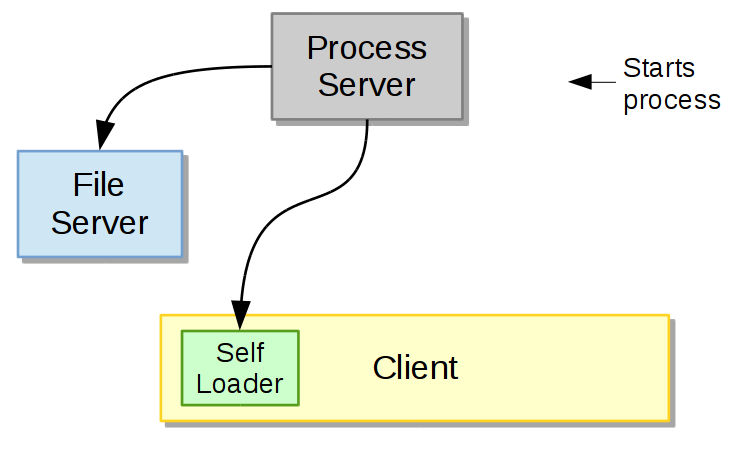
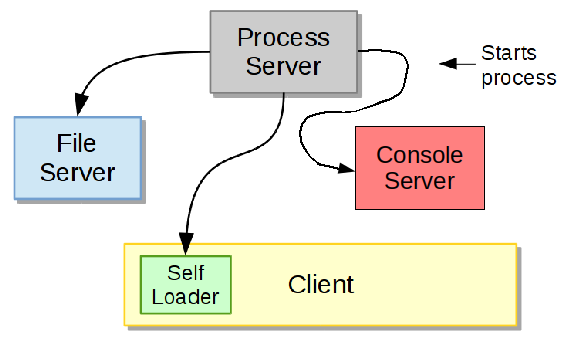
fix issues in doxygen code documentation

diff --git a/impl/apps/process_server/src/main.c b/impl/apps/process_server/src/main.c
@@ -14,12 +14,12 @@
     @brief Top-level main module for process server.
 
     The top level main module of the process server, containing the main function which runs as
-    the initial kernel thread. Starts up the process server, bootstraps itself, initialises the
-    submodules, and and starts the rest of system.
+    the initial kernel thread. This function starts up the process server, bootstraps itself, initialises the
+    submodules, and starts the rest of system.
 
-    The process server is responsible for implementing threads & processes, manage memory window
-    segments, expose anon memory dataspaces, and hand off other system resources to the system
-    processes available (such as device and IRQ caps device servers).
+    The process server is responsible for implementing threads and processes, managing memory window
+    segments, exposing anonymous memory dataspaces, and handing off other system resources to the available system
+    processes (such as device and IRQ caps device servers).
 
     @image html procserv.png
 
@@ -28,7 +28,7 @@
         <li>Assumes the connection session is set up, so therefore does not support connection
             establishment.</li>
         <li>Ignores the fileName parameter of the open method; makes no sense for anon memory.</li>
-        <li>Reads the nBytes parameter of the open method, as the max. size of the ram dataspace
+        <li>Reads the nBytes parameter of the open method, as the maximum size of the ram dataspace
             created. </li>
         <li>Does NOT implement set_parambuffer, it shares the parambuffer from procserv interface
             and reads that instead. </li>

diff --git a/impl/docs/extra_pages/design.h b/impl/docs/extra_pages/design.h
@@ -44,7 +44,7 @@ The main goal of the data server interface is to provide dataspace abstraction. 
 @section Startup
 @image html startup.png "Figure 2 - RefOS Boot Protocol"
 
-In the RefOS boot protocol, the process server is started and initialises itself. Once the process server is running, the process server uses its interal ELF loader to start the file server and then starts the selfloader.
+In the RefOS boot protocol, the process server is started and initialises itself. Once the process server is running, the process server uses its interal ELF loader to start the console server, the file server and then the selfloader.
 
 @image html elfload.png "Figure 3 - ELF Loading"
 
